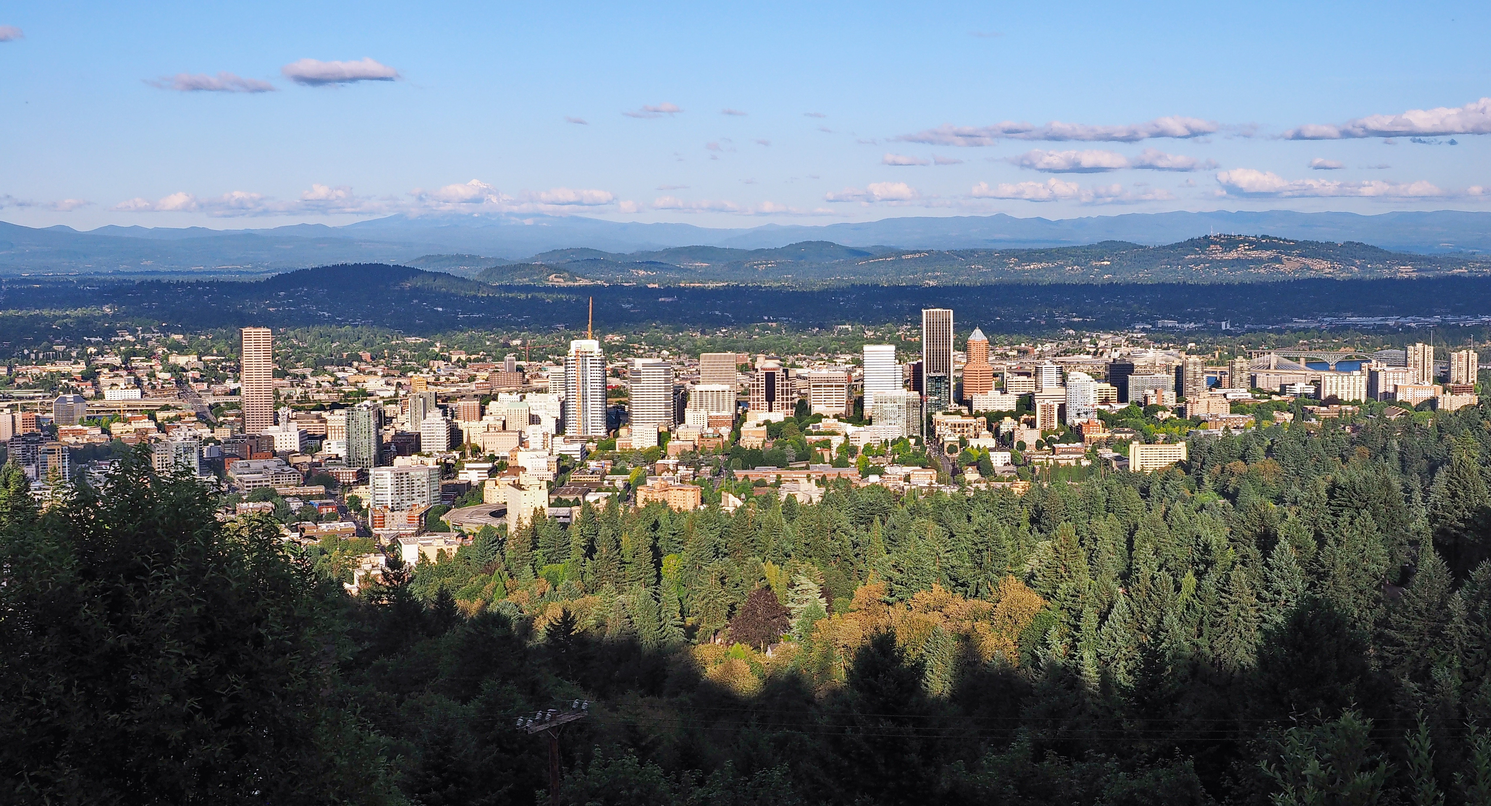
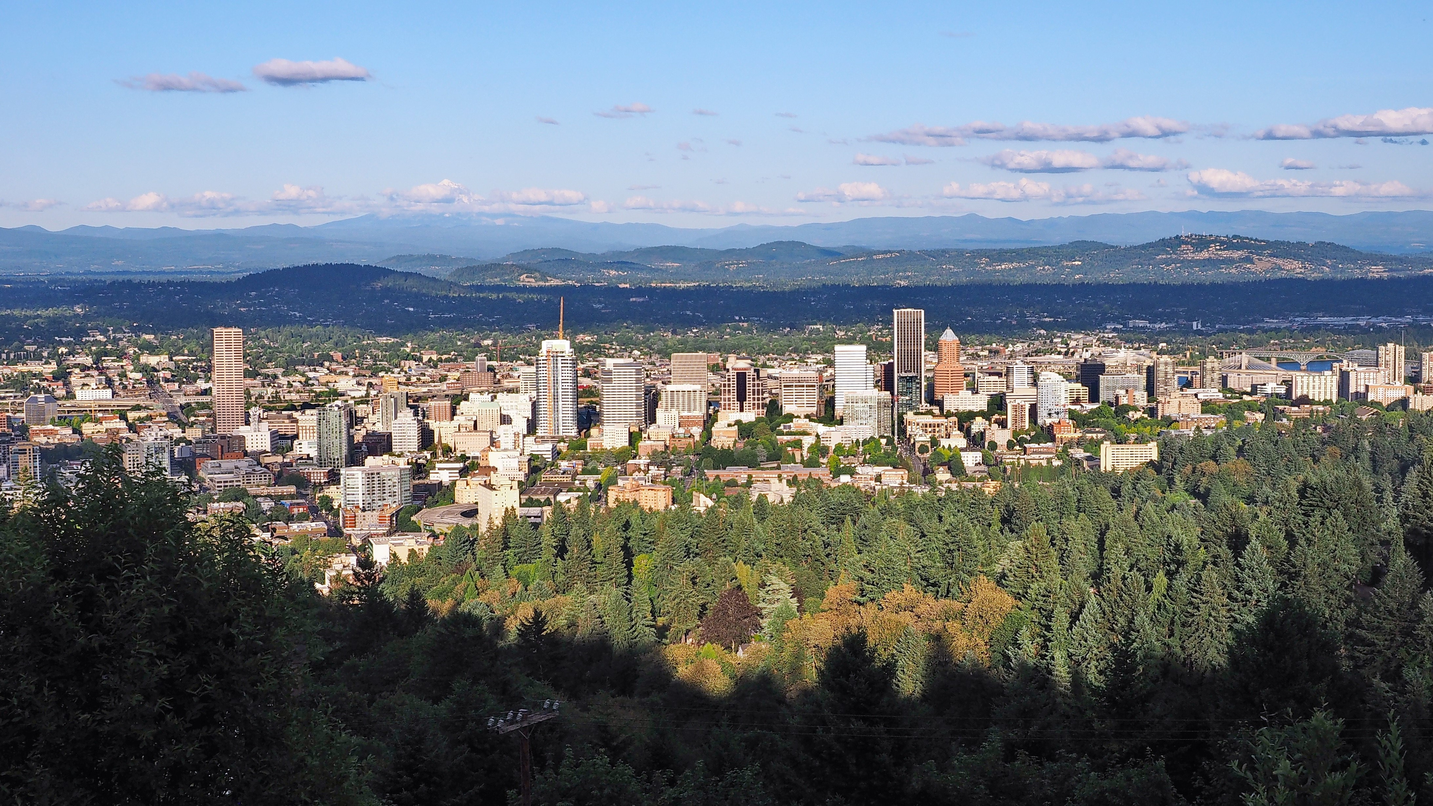
Editted Prototype Images & Touched Up Markup
Editted the prototype images to have 16:9 aspect ratio and touched up some markup to make the page more responseive.

diff --git a/front_end/src/components/landing_page/Landing.js b/front_end/src/components/landing_page/Landing.js
@@ -21,15 +21,23 @@ import WA from "./WA.jpg";
 import PA from "./PA.jpg";
 
 // Material-UI Imports
-import { Grid, Typography, Paper, withStyles } from "@material-ui/core";
+import {
+  Grid,
+  Typography,
+  Paper,
+  withStyles,
+  Card,
+  CardActionArea,
+  CardContent,
+  CardMedia
+} from "@material-ui/core";
 
 // Component CSS
 let styles = {
   root: {
     width: "auto",
-    flexGrow: 1,
-    marginLeft: 150,
-    marginRight: 150
+    justify: "center",
+    flexGrow: 1
   },
   imgSlideShow: {
     display: "flex",
@@ -37,18 +45,17 @@ let styles = {
     backgroundSize: "cover",
     maxWidth: "100%",
     maxHeight: "100%",
-    height: "70vh",
+    height: "95vh",
     minHeight: 450
+  },
+  centerFlexbox: {
+    display: "flex"
   },
   searchWidgetBox: {
     alignSelf: "center",
     background: "rgba(0,0,0,0.5)",
     padding: 20,
     width: "100%"
-  },
-  seperator: {
-    height: 150,
-    width: 300
   },
   collageImg: {
     height: "100%"
@@ -58,6 +65,9 @@ let styles = {
     marginBottom: 10,
     paddingTop: 0,
     paddingBottom: 0
+  },
+  cardMedia: {
+    height: "25vh"
   }
 };
 
@@ -65,6 +75,8 @@ class Landing extends Component {
   constructor(props) {
     super(props);
     this.state = {};
+
+    this.genBackgroundImgStyle = this.genBackgroundImgStyle.bind(this);
   }
 
   // TODO: Replace deprecated 'componenDidMount' with proper lifecycle method
@@ -77,27 +89,93 @@ class Landing extends Component {
 
   render() {
     // TODO: Create slideshow that dynamically changes based on featured cities
-    // TODO: Dynamically generate markup for top deals
-    // TODO: Dynamically generate markup for featured cities
+
+    // TODO: Remove the following placeholder once backend is implemented and connected.
+    // The following object is here as a placeholder to avoid compiler errors.
 
     let { classes } = this.props;
 
-    function dealStyle(img) {
+    let landing = {
+      header: {
+        cityName: String,
+        head: String
+      },
+      deals1: {
+        name: String,
+        picurl: NY,
+        rates: Number,
+        price: Number
+      },
+      deals2: {
+        name: String,
+        picurl: LA,
+        rates: Number,
+        price: Number
+      },
+      deals3: {
+        name: String,
+        picurl: SD,
+        rates: Number,
+        price: Number
+      },
+      featureDestination: [
+        {
+          cityName: String,
+          picurl: String
+        }
+      ]
+    };
+
+    // TODO: Remove the following placeholder once backend is implemented and connected.
+    // The folowing declaration is a placeholder to avoid compiler errors.
+    let { header, deals1, deals2, deals3, featureDestination } = landing;
+
+    let dealsArr = [deals1, deals2, deals3];
+
+    let topDealsMarkup = dealsArr.map(city => {
+      if (city != null) {
+        return (
+          <Card>
+            <CardActionArea>
+              <CardMedia
+                className={classes.cardMedia}
+                image={city.picurl}
+                title="Weekend Deals"
+              />
+              <CardContent>
+                <Typography variant="h6">{city.picurl}</Typography>
+                <Typography variant="subtitle1">View Deals</Typography>
+              </CardContent>
+            </CardActionArea>
+          </Card>
+        );
+      }
+    });
+
+    let featureDestinationMarkup = featureDestination.map(city => {
+      return (
+        <Grid item className="mouseHover" xs={3}>
+          <img src={city.picurl} style={styles.collageImg} />
+        </Grid>
+      );
+    });
+
+    var genBackgroundImgStyle = () => {
       return {
-        display: "flex",
-        alignItems: "center",
-        justifyContent: "center",
-        backgroundImage: `url(${img})`,
+        display: "inline-block",
+        backgroundImage: `url(${featureDestination})`,
         backgroundSize: "cover",
-        width: 450,
-        height: 300
+        alignItems: "center"
       };
-    }
+    };
 
     return (
       <div>
-        <div className="shadow" style={styles.imgSlideShow}>
-          <div className="fadeIn" style={styles.searchWidgetBox}>
+        {/*<div className={genBackgroundImgStyle()} boxShadow={3}>*/}
+        {/* PROTOTYPE LINE BEGINNING */}
+        <div className={classes.imgSlideShow} boxShadow={3}>
+          {/* PROTOTYPE LINE BEGINNING */}
+          <div className={`${classes.searchWidgetBox} fadeIn`}>
             <SearchWidget />
           </div>
         </div>
@@ -112,79 +190,99 @@ class Landing extends Component {
         >
           <div className="fadeIn">
             <div>
-              <div style={{ display: "flex", justifyContent: "center" }}>
-                <Typography variant="h4">Deals of the Week</Typography>
-              </div>
-              <hr className={classes.noYMarginTop} />
-            </div>
-            <Grid container style={styles.root} justify="center" spacing={16}>
-              <Grid item>
-                <Paper
-                  className="mouseHover"
-                  style={dealStyle(LA)}
-                  square="false"
-                >
-                  <Typography style={{ color: "#FFFFFF" }} variant="h4">
-                    10% Off Weekends!
-                  </Typography>
-                </Paper>
-              </Grid>
-              <Grid item>
-                <Paper
-                  className="mouseHover"
-                  style={dealStyle(NY)}
-                  square="false"
-                >
-                  <Typography style={{ color: "#FFFFFF" }} variant="h4">
-                    New York Trip Discount!
-                  </Typography>
-                </Paper>
-              </Grid>
-              <Grid item>
-                <Paper
-                  className="mouseHover"
-                  style={dealStyle(CH)}
-                  square="false"
-                >
-                  <Typography style={{ color: "#FFFFFF" }} variant="h4">
-                    Upcoming Holiday Discount!
-                  </Typography>
-                </Paper>
-              </Grid>
-            </Grid>
-            <div>
-              <div style={{ display: "flex", justifyContent: "center" }}>
-                <Typography variant="h4" style={{ marginTop: 50 }}>
-                  Top Cities
+              <div className={classes.centerFlexbox}>
+                <Typography variant="h5" style={{ marginTop: 50 }}>
+                  Deals of the Week
                 </Typography>
               </div>
               <hr className={classes.noYMarginTop} />
             </div>
             <Grid container spacing={8} direction="row" justify="center">
-              <Grid item className="mouseHover" xs={3}>
-                <img src={AU} style={styles.collageImg} />
+              {/* topDealsMarkup */}
+              {/* Prototype Markup BEGINNING */}
+              <Grid item xs={4} className="mouseHover">
+                <Card>
+                  <CardActionArea>
+                    <CardMedia
+                      className={classes.cardMedia}
+                      image={SD}
+                      title="Weekend Deals"
+                    />
+                    <CardContent>
+                      <Typography variant="h6">Weekend Deals!</Typography>
+                      <Typography variant="subtitle1">View Deals</Typography>
+                    </CardContent>
+                  </CardActionArea>
+                </Card>
               </Grid>
-              <Grid item className="mouseHover" xs={3}>
-                <img src={DE} style={styles.collageImg} />
+              <Grid item xs={4} className="mouseHover">
+                <Card>
+                  <CardActionArea>
+                    <CardMedia
+                      className={classes.cardMedia}
+                      image={VG}
+                      title="Weekend Deals"
+                    />
+                    <CardContent>
+                      <Typography variant="h6">Featured City Deals!</Typography>
+                      <Typography variant="subtitle1">View Deals</Typography>
+                    </CardContent>
+                  </CardActionArea>
+                </Card>
               </Grid>
-              <Grid item className="mouseHover" xs={3}>
-                <img src={PO} style={styles.collageImg} />
+              <Grid item xs={4} className="mouseHover">
+                <Card>
+                  <CardActionArea>
+                    <CardMedia
+                      className={classes.cardMedia}
+                      image={WA}
+                      title="Weekend Deals"
+                    />
+                    <CardContent>
+                      <Typography variant="h6">Holiday Deals!</Typography>
+                      <Typography variant="subtitle1">View Deals</Typography>
+                    </CardContent>
+                  </CardActionArea>
+                </Card>
               </Grid>
-              <Grid item className="mouseHover" xs={3}>
-                <img src={SA} style={styles.collageImg} />
+              {/* Prototype Markup ENDING */}
+            </Grid>
+            <div>
+              <div className={classes.centerFlexbox}>
+                <Typography variant="h5" style={{ marginTop: 50 }}>
+                  Featured Cities
+                </Typography>
+              </div>
+              <hr className={classes.noYMarginTop} />
+            </div>
+            <Grid container spacing={8} direction="row" justify="center">
+              {/* featureDestinationMarkup */}
+              {/* Prototype Markup BEGINNING */}
+              <Grid item xs={3} className="mouseHover">
+                <img src={AU} backgroundSize="contain" />
               </Grid>
-              <Grid item className="mouseHover" xs={3}>
-                <img src={SD} style={styles.collageImg} />
+              <Grid item xs={3} className="mouseHover">
+                <img src={CH} backgroundSize="contain" />
               </Grid>
-              <Grid item className="mouseHover" xs={3}>
-                <img src={VG} style={styles.collageImg} />
+              <Grid item xs={3} className="mouseHover">
+                <img src={DE} backgroundSize="contain" />
               </Grid>
-              <Grid item className="mouseHover" xs={3}>
-                <img src={WA} style={styles.collageImg} />
+              <Grid item xs={3} className="mouseHover">
+                <img src={LA} backgroundSize="contain" />
               </Grid>
-              <Grid item className="mouseHover" xs={3}>
-                <img src={PA} style={styles.collageImg} />
+              <Grid item xs={3} className="mouseHover">
+                <img src={NY} backgroundSize="contain" />
               </Grid>
+              <Grid item xs={3} className="mouseHover">
+                <img src={PA} backgroundSize="contain" />
+              </Grid>
+              <Grid item xs={3} className="mouseHover">
+                <img src={PO} backgroundSize="contain" />
+              </Grid>
+              <Grid item xs={3} className="mouseHover">
+                <img src={SA} backgroundSize="contain" />
+              </Grid>
+              {/* Prototype Markup ENDING */}
             </Grid>
           </div>
         </div>

diff --git a/front_end/src/components/landing_page/Landing.css b/front_end/src/components/landing_page/Landing.css
@@ -47,6 +47,36 @@
   }
 }
 
+.typewriter h1 {
+  overflow: hidden; /* Ensures the content is not revealed until the animation */
+  border-right: 0.15em solid orange; /* The typwriter cursor */
+  white-space: nowrap; /* Keeps the content on a single line */
+  margin: 0 auto; /* Gives that scrolling effect as the typing happens */
+  letter-spacing: 0.15em; /* Adjust as needed */
+  animation: typing 3.5s steps(40, end), blink-caret 0.75s step-end infinite;
+}
+
+/* The typing effect */
+@keyframes typing {
+  from {
+    width: 0;
+  }
+  to {
+    width: 100%;
+  }
+}
+
+/* The typewriter cursor effect */
+@keyframes blink-caret {
+  from,
+  to {
+    border-color: transparent;
+  }
+  50% {
+    border-color: orange;
+  }
+}
+
 .mouseHover:hover {
   position: relative;
   animation: moveUp;
